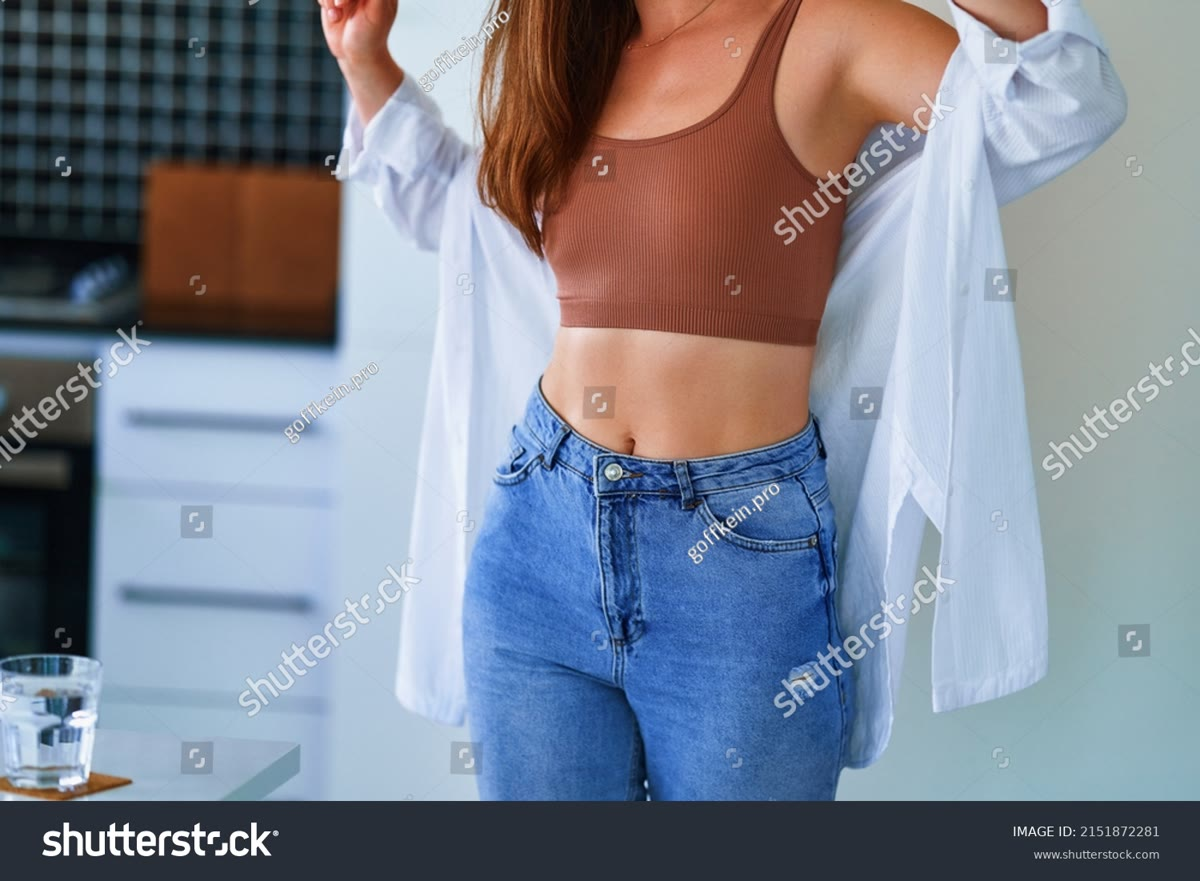
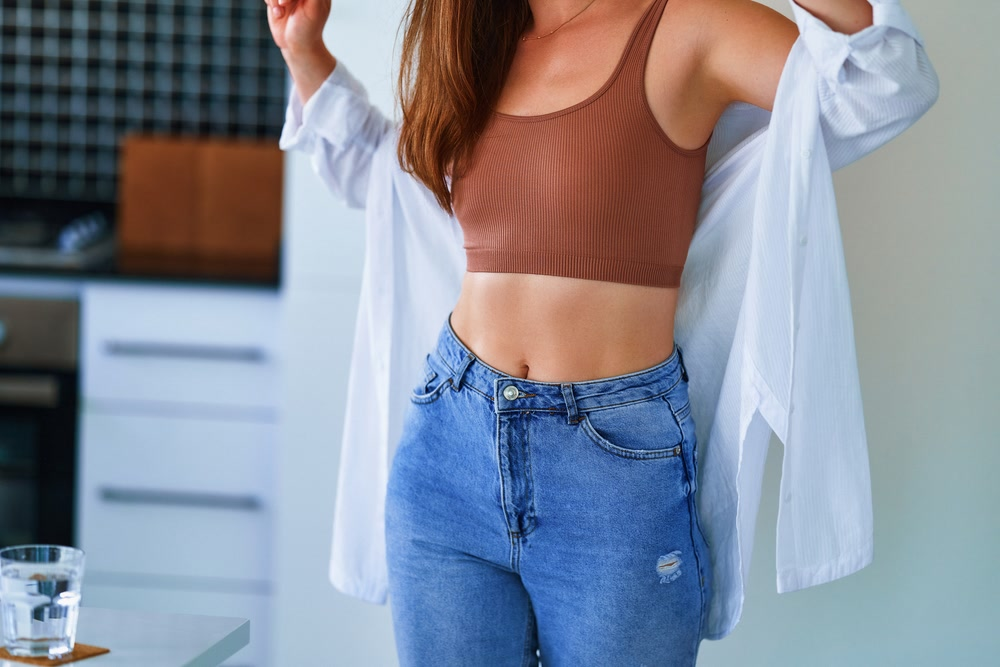
Watermark Removals
Replaced sample shutterstock images with licensed versions.

diff --git a/coolsculpting-elite-landing.html b/coolsculpting-elite-landing.html
@@ -1498,7 +1498,7 @@
     <!-- 1. HERO -->
     <section class="hero" id="home" aria-labelledby="hero-title">
       <div class="hero__bg" aria-hidden="true">
-        <img class="hero__bg-img" src="images/procedures/coolsculpting-elite/hero.jpg" width="1500" height="1101" alt=""
+        <img class="hero__bg-img" src="images/procedures/coolsculpting-elite/hero.jpg" width="1000" height="667" alt=""
           decoding="async" fetchpriority="high" />
       </div>
       <div class="hero__overlay">
@@ -1569,7 +1569,7 @@
       <div class="container">
         <div class="about-grid">
           <div class="about-visual reveal" aria-hidden="true">
-            <img src="images/procedures/coolsculpting-elite/stubborn.jpg" width="1200" height="881" alt="" loading="lazy"
+            <img src="images/procedures/coolsculpting-elite/stubborn.jpg" width="1000" height="667" alt="" loading="lazy"
               decoding="async" />
           </div>
           <div class="reveal">
